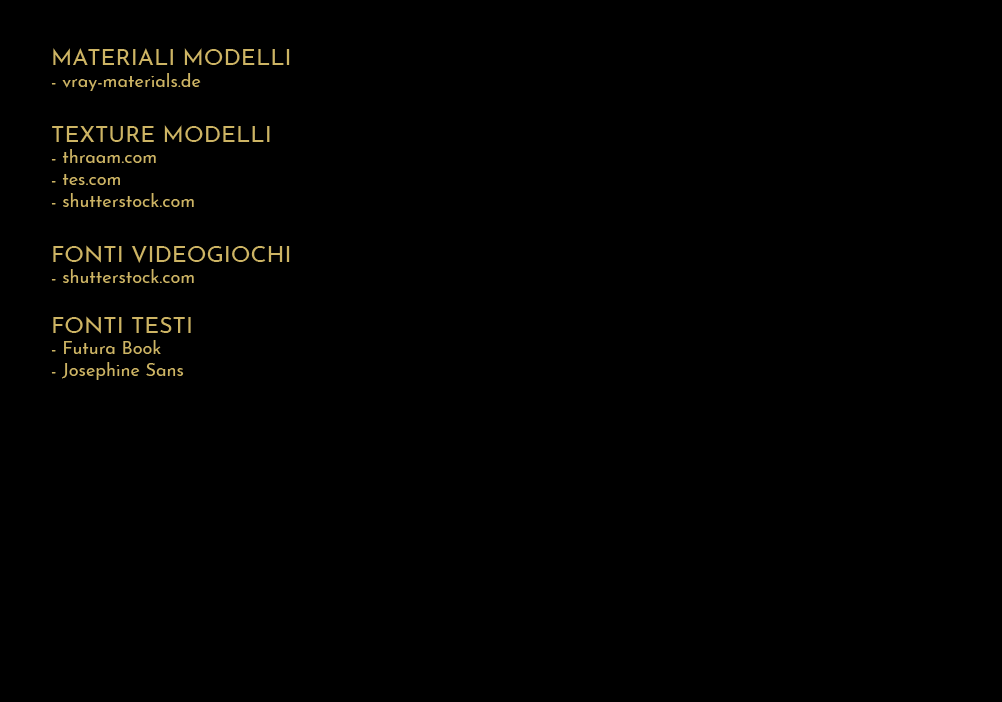
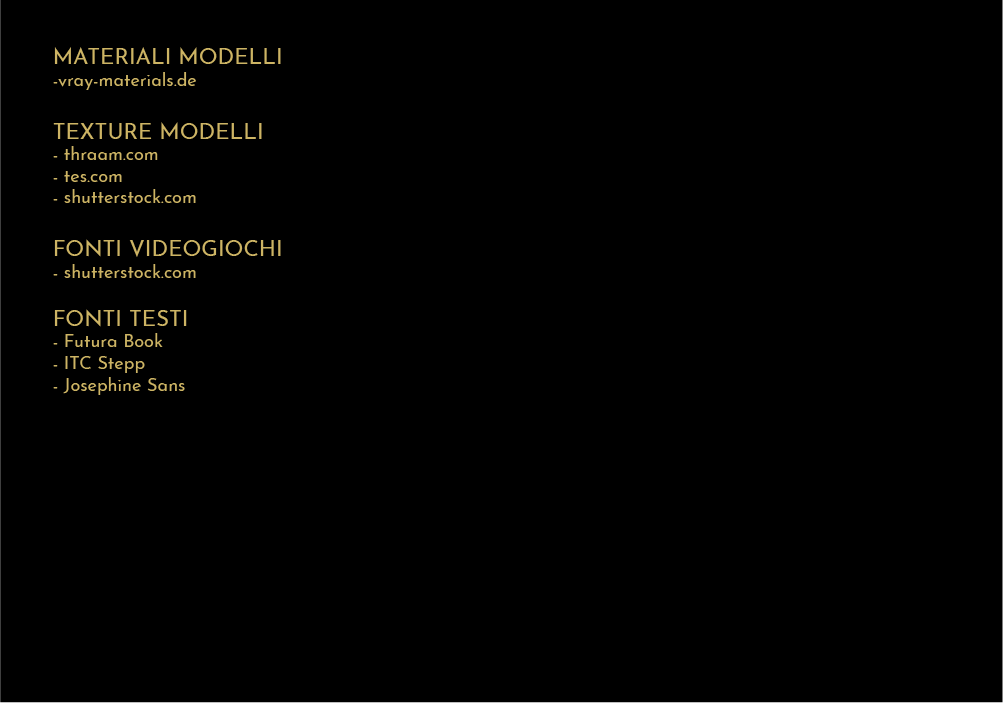
Font titoli corretto

Changed region(s): [[0.0309, 0.3291, 0.3094, 0.5684], [0.0309, 0.0598, 0.3094, 0.2991], [0.0, 0.9872, 1.0, 1.0]]

diff --git a/css/style.css b/css/style.css
@@ -169,7 +169,7 @@
   color: #d5ba4b;
   left: 5.1%;
   top: 2.5%;
-  font-family: 'Josefin Sans', sans-serif;
+  font-family: 'SteppITCStd-Bold';
   font-size: 37px;
 }
 
